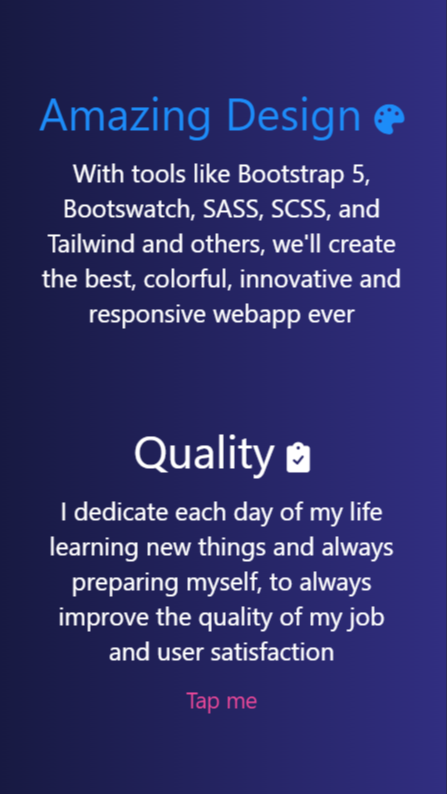
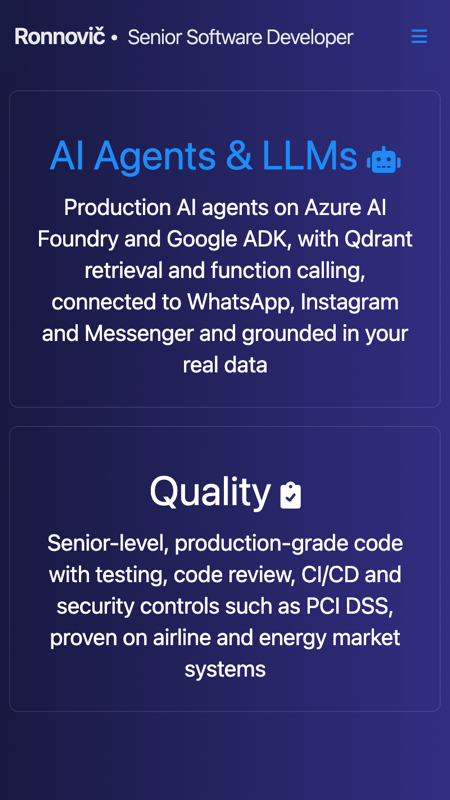
Senior title, refreshed Services page, mobile previews
- Add Senior to nav, footer, home card and bios
- Rewrite Services copy (AI agents, quality, communication, UX/UI, end-to-end); fix typos
- Smoother staggered AOS entrance, card lift/icon hover, slower cube carousel, reduced-motion support
- Home previews show mobile screenshots below 768px; refresh all preview screenshots

diff --git a/src/app/pages/landing/landing.component.html b/src/app/pages/landing/landing.component.html
@@ -6,44 +6,36 @@
 
       <div class="grid grid-cols-1 sm:grid-cols-2 gap-4 lg:grid-cols-3 mt-20 lg:mt-32 mx-2 xs:mx-8 lg:mx-20 xl:mx-32 justify-items-center">
 
-        <div data-aos="zoom-in" data-aos-easing="ease-in-out"
+        <div data-aos="zoom-in" data-aos-delay="0"
         class="bg-transparent grid sm:col-span-2 sm:w-1/2 lg:w-full my-0 lg:my-auto lg:h-1/2 lg:col-span-1 lg:row-span-2
           card hover:bg-pct hover:shadow-pct hover:shadow-2xl">
-          <div class=" text-4xl text-bl text-center pt-6">Amazing Design <i class="fas fa-palette text-2xl"></i></div>
-          <div class=" text-xl text-white text-center p-3 ">With tools like Bootstrap 5, Bootswatch, SASS, SCSS, and Tailwind and others, we'll create the best, colorful, innovative and responsive webapp ever</div>
+          <div class=" text-4xl text-bl text-center pt-6">AI Agents &amp; LLMs <i class="fas fa-robot text-2xl"></i></div>
+          <div class=" text-xl text-white text-center p-3 ">Production AI agents on Azure AI Foundry and Google ADK, with Qdrant retrieval and function calling, connected to WhatsApp, Instagram and Messenger and grounded in your real data</div>
         </div>
 
-        <div data-aos="fade-down-right" data-aos-easing="ease-in-out"
+        <div data-aos="fade-down-right" data-aos-delay="120"
           class="bg-transparent grid card hover:bg-pink-500 hover:shadow-pink-500 hover:shadow-2xl">
           <div class=" text-4xl text-white text-center pt-6">Quality <i class="fas fa-clipboard-check text-2xl"></i></div>
-          <div class=" text-xl text-white text-center p-3">I dedicate each day of my life learning new things and always preparing myself, to always improve the quality of my job and user satisfaction</div>
-          <span class="m-auto text-pink-500 text-lg hidden lg:flex">Hover me</span>
-          <span class="m-auto text-pink-500 text-lg lg:hidden">Tap me</span>
+          <div class=" text-xl text-white text-center p-3">Senior-level, production-grade code with testing, code review, CI/CD and security controls such as PCI DSS, proven on airline and energy market systems</div>
         </div>
 
-        <div  data-aos="fade-down-left" data-aos-easing="ease-in-out"
+        <div  data-aos="fade-down-left" data-aos-delay="240"
           class="bg-transparent grid card hover:bg-grn hover:shadow-grn hover:shadow-2xl">
-          <div class=" text-4xl text-white text-center pt-6">Comunication <i class="fas fa-comments text-2xl"></i>
+          <div class=" text-4xl text-white text-center pt-6">Communication <i class="fas fa-comments text-2xl"></i>
           </div>
-          <div class="text-xl text-white text-center p-3">Communication and teamwork are fundamentals for successful projects, I'm always willing to dialogue with my partners to find the most optimal solutions</div>
-          <span class="m-auto text-grn text-lg hidden lg:flex">Hover me</span>
-          <span class="m-auto text-grn text-lg lg:hidden">Tap me</span>
+          <div class="text-xl text-white text-center p-3">Clear, proactive communication in English and Spanish. I work in remote, cross-functional teams and lead a 13-person founding team</div>
         </div>
 
-        <div data-aos="fade-up-right" data-aos-easing="ease-in-out"
+        <div data-aos="fade-up-right" data-aos-delay="360"
           class="bg-transparent grid card hover:bg-bl hover:shadow-bl hover:shadow-2xl">
           <div class=" text-4xl text-white text-center pt-6">UX/UI <i class="fas fa-user-check text-2xl"></i></div>
-          <div class="text-xl text-white text-center  p-5">Knowing and applying UX/UI concepts is essential for an application to be intuitive, friendly and, above all, to get the user to connect with your company.</div>
-          <span class="m-auto text-bl text-lg hidden lg:flex">Hover me</span>
-          <span class="m-auto text-bl text-lg lg:hidden">Tap me</span>
+          <div class="text-xl text-white text-center  p-5">Fast, responsive and accessible interfaces in Angular, React and Next.js with Tailwind, designed so users enjoy them and connect with your brand</div>
         </div>
 
-        <div data-aos="fade-up-left" data-aos-easing="ease-in-out"
+        <div data-aos="fade-up-left" data-aos-delay="480"
           class="bg-transparent grid card hover:bg-prpl hover:shadow-prpl hover:shadow-2xl">
-          <div class=" text-4xl text-white text-center pt-6">Full Job <i class="fas fa-rocket text-2xl"></i></div>
-          <div class=" text-xl text-white text-center  p-5">A process that goes through all the parts of the proyect in a very professional way, frontend, backend, database, hosting and everything in one place</div>
-          <span class="m-auto text-prpl text-lg hidden lg:flex">Hover me</span>
-          <span class="m-auto text-prpl text-lg lg:hidden">Tap me</span>
+          <div class=" text-4xl text-white text-center pt-6">End-to-End <i class="fas fa-rocket text-2xl"></i></div>
+          <div class=" text-xl text-white text-center  p-5">From idea to production: frontend, backend APIs in Python, Node.js and Java, databases, Docker and cloud deployment on Azure, GCP and AWS</div>
         </div>
 
       </div>
@@ -53,11 +45,11 @@
     <div data-aos="zoom-in" data-aos-easing="ease-in-out"
     class="flex items-center justify-center">
       <h1 class="text-center text-3xl sm:text-4xl text-white mx-4 sm:mx-16">
-        What you're waiting for?, let's create the future.
+        What are you waiting for? Let's build the future.
       </h1>
     </div>
     <div class="flex flex-col md:mx-32 mt-20 w-full sm:w-3/4">
-      <swiper-container loop="true" speed="1000" grab-cursor="true" effect="cube" autoplay-delay="1000" autoplay-disable-on-interaction="false" space-between="80" centered-slides="true">
+      <swiper-container loop="true" speed="1000" grab-cursor="true" effect="cube" autoplay-delay="3000" autoplay-disable-on-interaction="false" space-between="80" centered-slides="true">
         <swiper-slide class="swiper-slide" *ngFor="let img of Imgs"><img [src]="img.src" [alt]="img.alt" /></swiper-slide>
       </swiper-container>
     </div>

diff --git a/src/app/pages/home/home.component.html b/src/app/pages/home/home.component.html
@@ -11,11 +11,11 @@
   <!-- <img class="bg-img " src="./assets/img/path2min.png"> -->
     <div class="container flex flex-row h-96 lg:h-auto flex-wrap items-center justify-evenly px-2 lg:px-20 mx-auto">
       <div data-aos="zoom-out" data-aos-easing="ease-in-out"
-        class="flex flex-col lg:w-2/5">
+        class="flex flex-col w-[45%] lg:w-2/5">
         <div
           class="img-pl">
           <a [routerLink]="['/landing']">
-            <img class="rounded" src="./assets/img/lndng.png" alt="Profile">
+            <picture><source media="(max-width: 767px)" srcset="./assets/img/lndng-mv.png"><img class="rounded" src="./assets/img/lndng.png" alt="Services page preview"></picture>
           </a>
         </div>
         <div class="flex flex-row justify-center lg:mt-5">
@@ -26,10 +26,10 @@
       </div>
 
       <div data-aos="zoom-out" data-aos-easing="ease-in-out"
-        class="flex flex-col lg:w-2/5">
+        class="flex flex-col w-[45%] lg:w-2/5">
         <div
           class="img-pl mt-5 lg:mt-0">
-          <a [routerLink]="['/profile']"> <img class="rounded" src="./assets/img/prfl.png" alt="Profile"> </a>
+          <a [routerLink]="['/profile']"> <picture><source media="(max-width: 767px)" srcset="./assets/img/prfl-mv.png"><img class="rounded" src="./assets/img/prfl.png" alt="Profile page preview"></picture> </a>
         </div>
         <div class="flex flex-row justify-center lg:mt-5">
           <a [routerLink]="['/profile']"
@@ -65,8 +65,8 @@
             <img class="mb-3 w-32 h-32 rounded-full shadow-lg mx-auto" src="./assets/img/profile-pic1.jpg"
               alt="product designer">
             <h1 class="text-lg text-white"> Ronnovič Rigel Toth </h1>
-            <h3 class="text-sm text-bl "> Software Developer &#8226; AI Agents &amp; LLM Applications </h3>
-            <p class="text-xs text-blue-200 mt-4 mb-6"> Software developer with 5+ years building production systems for Copa Airlines - Wingo and XM.
+            <h3 class="text-sm text-bl "> Senior Software Developer &#8226; AI Agents &amp; LLM Applications </h3>
+            <p class="text-xs text-blue-200 mt-4 mb-6"> Senior software developer with 5+ years building production systems for Copa Airlines - Wingo and XM.
               Co-founder &amp; CEO of Ecommer, where I lead SimetrIA, an omnichannel AI sales agent on WhatsApp,
               Instagram and Messenger. Final-year Physics Engineering student at Universidad del Cauca </p>
             <a [routerLink]="['/profile']"

diff --git a/src/app/pages/profile/profile.component.html b/src/app/pages/profile/profile.component.html
@@ -21,7 +21,7 @@
         <swiper-slide class="swiper-slide" *ngFor="let img of Imgs"><img [src]="img.src" [alt]="img.alt" /></swiper-slide>
       </swiper-container>
       <h1 class="text-center w-full text-blue-200 px-4 pt-6 lg:mx-10">
-        Software developer with 5+ years building production systems for Copa
+        Senior software developer with 5+ years building production systems for Copa
         Airlines - Wingo and XM. On the frontend I build SPAs with Angular, React
         and Next.js in TypeScript; on the backend I work with Python (FastAPI),
         Node.js (NestJS, Express) and Java (Spring Boot, WebFlux), backed by

diff --git a/src/app/layout/navigation/navigation.component.html b/src/app/layout/navigation/navigation.component.html
@@ -1,7 +1,7 @@
 <nav class="nav bg-gradient-to-r from-ndg to-indigo-900 opacity-90">
   <div class="flex items-center flex-shrink-0 text-white mr-6">
     <a [routerLink]="['/home']"> <span class="font-semibold text-xl tracking-tight ml-1">Ronnovič &#8226;</span>
-      <span class="font-light text-lg tracking-tight ml-2">Software Developer</span></a>
+      <span class="font-light text-lg tracking-tight ml-2">Senior Software Developer</span></a>
   </div>
   <div class="block lg:hidden">
     <button id='navbtn' (click)="toggle()"

diff --git a/src/app/layout/footer/footer.component.html b/src/app/layout/footer/footer.component.html
@@ -10,7 +10,7 @@
     <div class="flex flex-row justify-center">
       <div class="flex-col m-auto text-white">
         <a [routerLink]="['/home']"> <span class="font-semibold text-xl tracking-tight ml-1">Ronnovič &#8226;</span>
-          <span class="font-light text-lg tracking-tight ml-2">Software Developer</span></a>
+          <span class="font-light text-lg tracking-tight ml-2">Senior Software Developer</span></a>
       </div>
     </div>
   </div>

diff --git a/src/app/pages/landing/landing.component.scss b/src/app/pages/landing/landing.component.scss
@@ -6,7 +6,16 @@
     z-index: 2;
   }
 .card{
-  @apply rounded-lg p-3;
+  @apply rounded-lg p-3 border border-white/10 transition-all duration-500 ease-out hover:-translate-y-2;
+}
+.card i{
+  @apply inline-block transition-transform duration-500 ease-out;
+}
+.card:hover i{
+  transform: rotate(-12deg) scale(1.25);
+}
+@media (prefers-reduced-motion: reduce){
+  .card, .card i{ transition: none; transform: none !important; }
 }
 
 

diff --git a/src/app/pages/landing/landing.component.ts b/src/app/pages/landing/landing.component.ts
@@ -39,7 +39,12 @@ export class LandingComponent implements OnInit {
   constructor() { }
 
   ngOnInit(): void {
-    AOS.init()
+    AOS.init({
+      duration: 800,
+      easing: 'ease-out-cubic',
+      once: true,
+      disable: () => window.matchMedia('(prefers-reduced-motion: reduce)').matches
+    })
   }
 
 }
